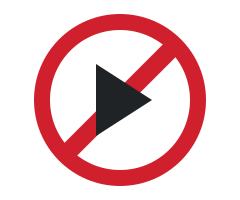
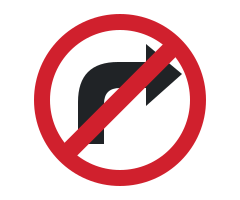
sign fixes

Changed region(s): [[0.3208, 0.21, 0.7583, 0.72]]

diff --git a/app.js b/app.js
@@ -367,22 +367,22 @@ function isSupplemental(question) {
 function signGraphic(question) {
   const text = question.q.toLowerCase();
   const svg = body => `<svg viewBox="0 0 120 100" role="img" aria-label="Road-sign illustration">${body}</svg>`;
-  if(text.includes('eight-sided')) return svg('<polygon points="38,5 82,5 105,28 105,72 82,95 38,95 15,72 15,28" fill="#c9232a" stroke="#fff" stroke-width="5"/><text x="60" y="59" text-anchor="middle" fill="#fff" font-size="23" font-weight="800">STOP</text>');
-  if(text.includes('triangular')) return svg('<polygon points="10,12 110,12 60,92" fill="#fff" stroke="#d0202d" stroke-width="7"/><text x="60" y="49" text-anchor="middle" fill="#202326" font-size="17" font-weight="800">YIELD</text>');
-  if(text.includes('diamond-shaped')) return svg('<rect x="24" y="14" width="72" height="72" rx="4" transform="rotate(45 60 50)" fill="#f5c928" stroke="#202326" stroke-width="4"/><path d="M42 66 C52 57 48 42 66 33" fill="none" stroke="#202326" stroke-width="7"/>');
-  if(text.includes('five-sided')) return svg('<polygon points="60,6 108,39 91,94 29,94 12,39" fill="#e8f04b" stroke="#202326" stroke-width="4"/><path d="M42 73l12-30m0 0l19 28m-25-12h19" fill="none" stroke="#202326" stroke-width="6"/>');
-  if(text.includes('orange-and-black')) return svg('<rect x="25" y="15" width="70" height="70" transform="rotate(45 60 50)" fill="#f28c28" stroke="#202326" stroke-width="4"/><path d="M43 73l15-44m1 17l17 27" stroke="#202326" stroke-width="6"/>');
-  if(text.includes('pink-and-black')) return svg('<rect x="25" y="15" width="70" height="70" transform="rotate(45 60 50)" fill="#ff78a8" stroke="#202326" stroke-width="4"/><text x="60" y="55" text-anchor="middle" fill="#202326" font-size="14" font-weight="800">INCIDENT</text>');
-  if(text.includes('red circle')) return svg('<circle cx="60" cy="50" r="39" fill="#fff" stroke="#d0202d" stroke-width="8"/><path d="M32 78L88 22" stroke="#d0202d" stroke-width="9"/><path d="M48 68V32l28 18z" fill="#202326"/>');
+  if(text.includes('eight-sided')) return svg('<polygon points="38,5 82,5 105,28 105,72 82,95 38,95 15,72 15,28" fill="#c9232a" stroke="#fff" stroke-width="5"/><text x="60" y="58" text-anchor="middle" fill="#fff" font-family="Arial,sans-serif" font-size="21" font-weight="900">STOP</text>');
+  if(text.includes('triangular')) return svg('<polygon points="10,12 110,12 60,92" fill="#fff" stroke="#d0202d" stroke-width="7"/><text x="60" y="48" text-anchor="middle" fill="#202326" font-family="Arial,sans-serif" font-size="15" font-weight="900">YIELD</text>');
+  if(text.includes('diamond-shaped')) return svg('<rect x="25" y="15" width="70" height="70" transform="rotate(45 60 50)" fill="#f5c928" stroke="#202326" stroke-width="4"/><path d="M56 25h8v21h21v8H64v21h-8V54H35v-8h21z" fill="#202326"/>');
+  if(text.includes('five-sided')) return svg('<polygon points="60,6 108,39 91,94 29,94 12,39" fill="#cdff00" stroke="#202326" stroke-width="4"/><g transform="translate(269.7134 2.415271)" fill="#202326"><path fill-rule="evenodd" d="M-200.0883975 29.584754c-.375.29875-.77625.5675-1.21875.75-.45.1825-.92.29125-1.40625.3125-.34625.015-.69.0038-1.03125-.0625l-.15625 1-2.34375 2.15625-2.90625 9.8125-4.25 1.75-2.40625-5.3125-3.6875-2.09375c-.29625.16875-.5775.3425-.90625.4375-.30625.0875-.61625.15375-.9375.15625-.4675.0075-.92375-.03125-1.375-.15625h-.09375l-2.59375 2.75-2.5625 8.21875-4.90625 4.65625 1.40625 1.34375 5.8125-3.84375.75-3.0625.9375 2.84375-3.75 11.5625 1.3125.40625-3.90625 14.75 2.09375.75 5.5625-14.75 2.25.15625 6.15625 14.3125 2.1875-.65625-4.4375-13.90625c.4475-.0975.89375-.215 1.34375-.3125.3925-.09.77375-.22 1.15625-.34375l-2.25-6.90625 5.59375-1.34375-1.15625-5.65625h-1.34375l.90625-1.40625-.15625-.34375 4.8125-1.3125 1.25-2.1875 1.84375 7.6875-3.59375 11.3125-1 17.21875 3.9375.34375 1.40625-14.3125 2.40625-5.34375 1.84375 7.34375 6.8125 12.71875 3.59375-1.75-6.40625-13.21875.65625-11.40625 6.8125-2-1.8125-6.65625-1.75.25.5625-3.59375-5.5625-10.5625-3-1.34375-.5-1.15625zm3.09375 10.0625 3 4.59375-.75 2.8125-1 .25-1.25-7.65625zm-19.5625 6.65625.75 1.59375-.6875 2-.90625.15625.84375-3.75zM-199.2509 25.588479c-.04 1.5425-.6775 2.83875-1.96375 3.72625-1.4925 1.03-3.48875.99625-4.98-.0225-1.2175-.83-1.96625-2.22875-1.9625-3.70375 0-1.7925 1.09625-3.425 2.73875-4.13 1.38125-.58875 2.96875-.4425 4.2125.405 1.21125.8275 1.99 2.25 1.955 3.725"/><path fill-rule="evenodd" d="M-217.4834 33.662229c-.05 1.735-1.04875 3.22625-2.655 3.91375-1.875.8-4.04.0775-5.15125-1.6125-1.085-1.64875-.8325-3.92625.55375-5.31625 1.3875-1.39375 3.66875-1.625 5.31625-.55 1.15125.75625 1.97875 2.165 1.93625 3.565"/></g>');
+  if(text.includes('orange-and-black')) return svg('<rect x="25" y="15" width="70" height="70" transform="rotate(45 60 50)" fill="#f28c28" stroke="#202326" stroke-width="4"/><text x="60" y="47" text-anchor="middle" fill="#202326" font-family="Arial,sans-serif" font-size="17" font-weight="900">ROAD</text><text x="60" y="67" text-anchor="middle" fill="#202326" font-family="Arial,sans-serif" font-size="17" font-weight="900">WORK</text>');
+  if(text.includes('pink-and-black')) return svg('<rect x="25" y="15" width="70" height="70" transform="rotate(45 60 50)" fill="#ff78a8" stroke="#202326" stroke-width="4"/><text x="60" y="54" text-anchor="middle" fill="#202326" font-family="Arial,sans-serif" font-size="11" font-weight="900">INCIDENT</text>');
+  if(text.includes('red circle')) return svg('<circle cx="60" cy="50" r="39" fill="#fff" stroke="#d0202d" stroke-width="8"/><path d="M39 72V51q0-20 20-20h14V22l18 15-18 16v-9H60q-8 0-8 8v20z" fill="#202326"/><path d="M32 78L88 22" stroke="#d0202d" stroke-width="9"/>');
   if(text.includes('red x')) return svg('<rect x="14" y="8" width="92" height="84" rx="8" fill="#15191c"/><path d="M38 27l44 46M82 27L38 73" stroke="#ef3340" stroke-width="12"/>');
-  if(text.includes('green road')) return svg('<rect x="8" y="18" width="104" height="64" rx="5" fill="#16764a" stroke="#fff" stroke-width="3"/><text x="60" y="45" text-anchor="middle" fill="#fff" font-size="12" font-weight="700">VIRGINIA BEACH</text><path d="M30 64h55m0 0l-12-9m12 9l-12 9" stroke="#fff" stroke-width="5"/>');
+  if(text.includes('green road')) return svg('<rect x="8" y="18" width="104" height="64" rx="5" fill="#16764a" stroke="#fff" stroke-width="3"/><text x="18" y="42" fill="#fff" font-family="Arial,sans-serif" font-size="10" font-weight="800">VIRGINIA BEACH</text><path d="M26 63h62m0 0-12-9m12 9-12 9" fill="none" stroke="#fff" stroke-width="5"/>');
   if(text.includes('yellow diagonal')) return svg('<rect x="14" y="8" width="92" height="84" rx="8" fill="#15191c"/><path d="M35 26l50 48m0 0V52m0 22H63" stroke="#f5c928" stroke-width="9"/>');
-  if(text.includes('blue-and-white')) return svg('<rect x="21" y="9" width="78" height="82" rx="5" fill="#1769aa" stroke="#fff" stroke-width="4"/><text x="60" y="61" text-anchor="middle" fill="#fff" font-size="39" font-weight="800">H</text>');
-  if(text.includes('brown-and-white')) return svg('<rect x="13" y="14" width="94" height="72" rx="5" fill="#77502d" stroke="#fff" stroke-width="4"/><path d="M29 67l21-34 13 20 10-14 19 28z" fill="#fff"/>');
-  if(text.includes('vertical rectangular')) return svg('<rect x="31" y="6" width="58" height="88" rx="4" fill="#fff" stroke="#202326" stroke-width="4"/><text x="60" y="36" text-anchor="middle" fill="#202326" font-size="12" font-weight="800">SPEED</text><text x="60" y="52" text-anchor="middle" fill="#202326" font-size="12" font-weight="800">LIMIT</text><text x="60" y="79" text-anchor="middle" fill="#202326" font-size="28" font-weight="800">35</text>');
-  if(text.includes('do not enter')) return svg('<circle cx="60" cy="50" r="43" fill="#c9232a" stroke="#fff" stroke-width="4"/><rect x="24" y="42" width="72" height="16" rx="2" fill="#fff"/>');
-  if(text.includes('winding-road')) return svg('<rect x="25" y="15" width="70" height="70" transform="rotate(45 60 50)" fill="#f5c928" stroke="#202326" stroke-width="4"/><path d="M55 76c28-19-17-26 8-48" fill="none" stroke="#202326" stroke-width="7"/>');
-  if(text.includes('crossbuck')) return svg('<g transform="translate(60 50) rotate(38)"><rect x="-57" y="-11" width="114" height="22" fill="#fff" stroke="#202326" stroke-width="3"/></g><g transform="translate(60 50) rotate(-38)"><rect x="-57" y="-11" width="114" height="22" fill="#fff" stroke="#202326" stroke-width="3"/></g><text x="60" y="25" text-anchor="middle" fill="#202326" font-size="10" font-weight="800">RAILROAD</text><text x="60" y="81" text-anchor="middle" fill="#202326" font-size="10" font-weight="800">CROSSING</text>');
+  if(text.includes('blue-and-white')) return svg('<rect x="21" y="9" width="78" height="82" rx="5" fill="#1769aa" stroke="#fff" stroke-width="4"/><text x="60" y="63" text-anchor="middle" fill="#fff" font-family="Arial,sans-serif" font-size="40" font-weight="900">H</text>');
+  if(text.includes('brown-and-white')) return svg('<rect x="10" y="17" width="100" height="66" rx="5" fill="#77502d" stroke="#fff" stroke-width="4"/><text x="20" y="43" fill="#fff" font-family="Arial,sans-serif" font-size="11" font-weight="800">STATE PARK</text><path d="M26 63h62m0 0-12-9m12 9-12 9" fill="none" stroke="#fff" stroke-width="5"/>');
+  if(text.includes('vertical rectangular')) return svg('<rect x="31" y="6" width="58" height="88" rx="4" fill="#fff" stroke="#202326" stroke-width="4"/><text x="60" y="34" text-anchor="middle" fill="#202326" font-family="Arial,sans-serif" font-size="11" font-weight="900">SPEED</text><text x="60" y="49" text-anchor="middle" fill="#202326" font-family="Arial,sans-serif" font-size="11" font-weight="900">LIMIT</text><text x="60" y="79" text-anchor="middle" fill="#202326" font-family="Arial,sans-serif" font-size="28" font-weight="900">35</text>');
+  if(text.includes('do not enter')) return svg('<circle cx="60" cy="50" r="43" fill="#c9232a" stroke="#fff" stroke-width="4"/><text x="60" y="32" text-anchor="middle" fill="#fff" font-family="Arial,sans-serif" font-size="9" font-weight="900">DO NOT</text><rect x="24" y="42" width="72" height="16" rx="2" fill="#fff"/><text x="60" y="76" text-anchor="middle" fill="#fff" font-family="Arial,sans-serif" font-size="9" font-weight="900">ENTER</text>');
+  if(text.includes('winding-road')) return svg('<rect x="25" y="15" width="70" height="70" transform="rotate(45 60 50)" fill="#f5c928" stroke="#202326" stroke-width="4"/><path d="M53 76c25-12 24-24 7-31-11-6-8-10 3-13" fill="none" stroke="#202326" stroke-width="7"/><path d="M63 23l-5 12 10-1z" fill="#202326"/>');
+  if(text.includes('crossbuck')) return svg('<g transform="translate(60 50) rotate(38)"><rect x="-57" y="-11" width="114" height="22" fill="#fff" stroke="#202326" stroke-width="3"/></g><g transform="translate(60 50) rotate(-38)"><rect x="-57" y="-11" width="114" height="22" fill="#fff" stroke="#202326" stroke-width="3"/></g><g fill="#202326" font-family="Arial,sans-serif" font-size="8" font-weight="900" text-anchor="middle"><g transform="translate(60 50) rotate(38)"><text x="-29" y="3">RAIL</text><text x="29" y="3">ROAD</text></g><g transform="translate(60 50) rotate(-38)"><text x="-28" y="3">CROSS</text><text x="29" y="3">ING</text></g></g>');
   return svg('<rect x="25" y="15" width="70" height="70" transform="rotate(45 60 50)" fill="#f5c928" stroke="#202326" stroke-width="4"/><text x="60" y="57" text-anchor="middle" fill="#202326" font-size="28" font-weight="800">!</text>');
 }
 
